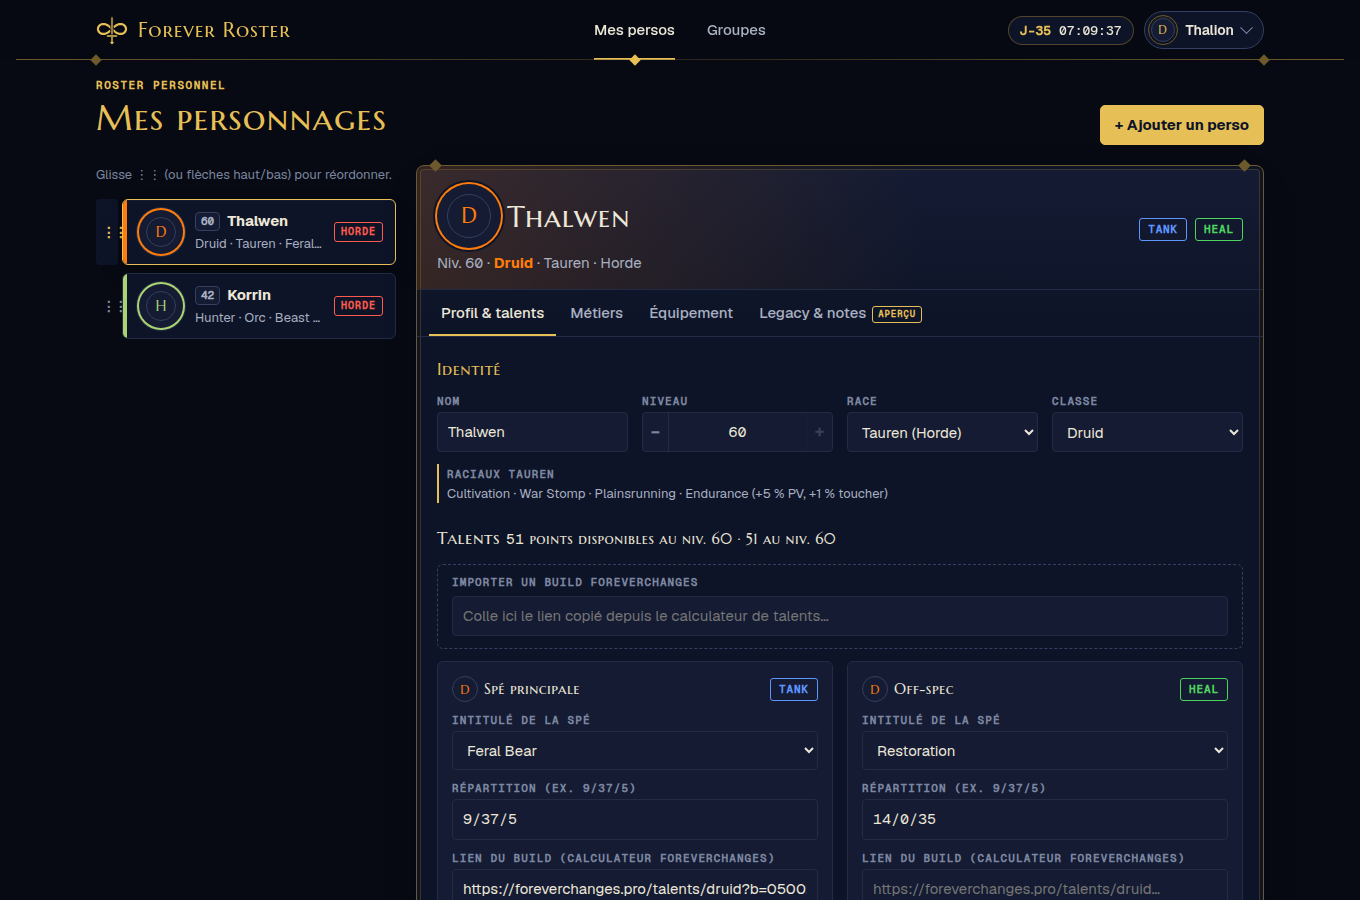
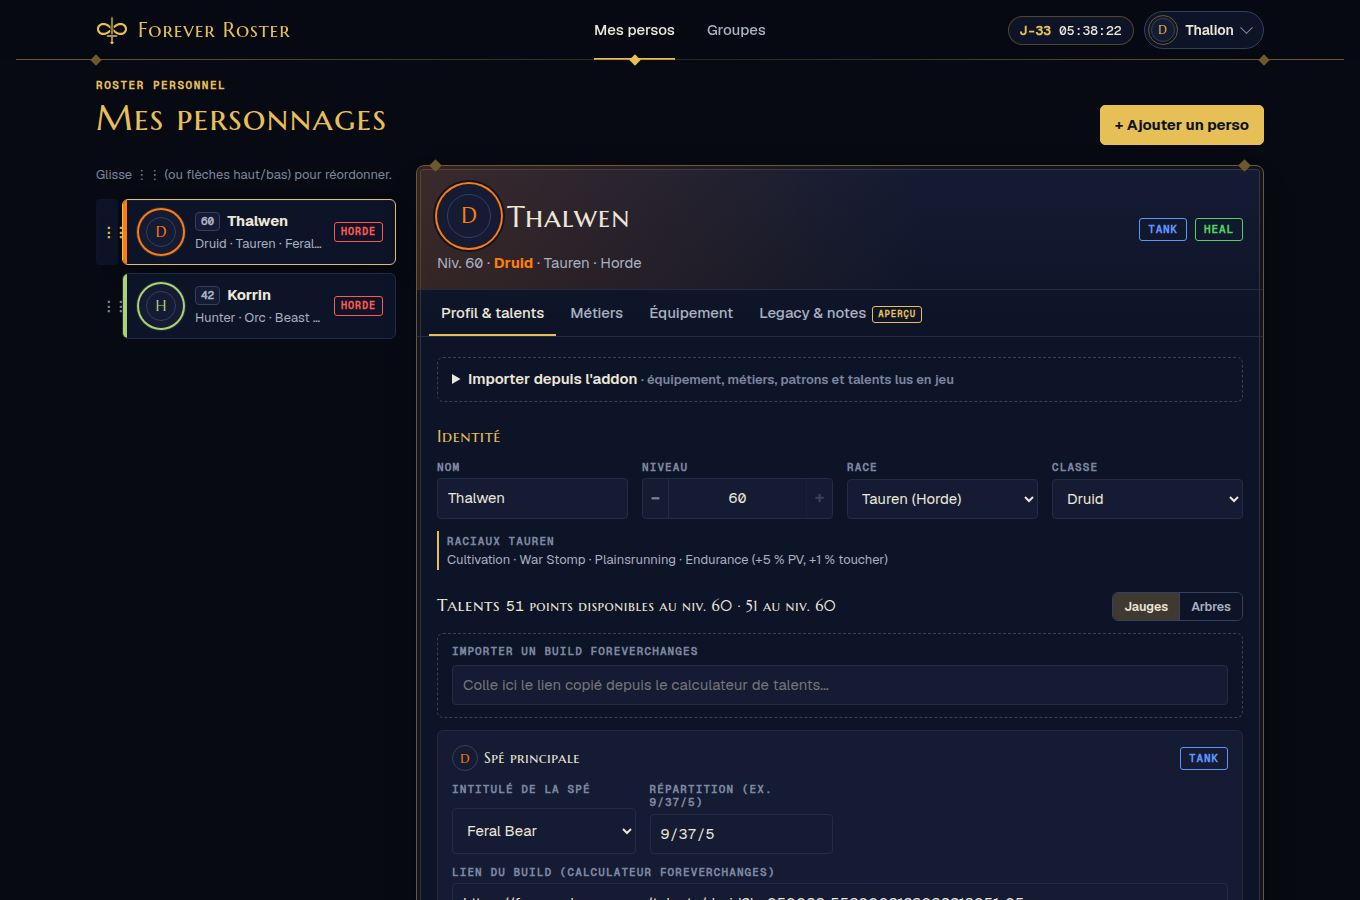
Nom de famille Forever, arbres sous la spé principale, patrons en colonne étroite
- nom de famille de Forever (« Greta Coulé ») : le jeu n'utilise que le
  prénom ; l'import de l'addon compare le prénom, l'export FRR et les
  macros /inv n'envoient que le prénom, l'addon 0.1.4 l'ignore aussi
- fiche : off-spec sous la spé principale, les trois arbres côte à côte
  sur toute la largeur, talents un peu plus grands
- patrons : en colonne étroite (métiers secondaires, mobile), boutons
  sous le nom au lieu d'écraser le nom lettre par lettre ; filtres type
  et rareté masqués quand la place manque
- capture 01-persos régénérée

Claude-Session: https://claude.ai/code/session_01Bqq2nF6L1A4M8CKsbknfM3

diff --git a/apps/web/src/styles.css b/apps/web/src/styles.css
@@ -193,8 +193,8 @@ table.gear { min-width: 720px; }
 @media (max-width: 520px) { .trow { grid-template-columns: 96px 1fr 30px; } .pane { padding: 16px; } .dhead { padding: 16px; } }
 @media (prefers-reduced-motion: no-preference) { .card, .btn, .tab, .slot { transition: border-color .15s, background .15s, color .15s; } }
 
-/* Builds : spé principale et off-spec côte à côte */
-.builds { display: grid; grid-template-columns: repeat(auto-fit, minmax(280px, 1fr)); gap: 14px; }
+/* Builds : spé principale puis off-spec en dessous (toute la largeur pour les trois arbres côte à côte) */
+.builds { display: grid; grid-template-columns: minmax(0, 1fr); gap: 14px; }
 .build { display: grid; gap: 12px; align-content: start; padding: 14px; border: 1px solid var(--line); border-radius: 6px; background: var(--panel-2); min-width: 0; }
 .build-head { display: flex; align-items: center; justify-content: space-between; gap: 8px; }
 .build-head h4 { margin: 0; font-size: 15px; }
@@ -208,19 +208,29 @@ table.gear { min-width: 720px; }
 .recipes > summary::before { content: "▸"; color: var(--gold); margin-right: 6px; transition: transform .15s; }
 .recipes[open] > summary::before { transform: rotate(90deg); }
 .recipes > summary > span:first-child { flex: 1; }
-.recipes-body { display: grid; gap: 10px; padding: 0 12px 12px; }
-.rfilters { display: grid; grid-template-columns: repeat(auto-fit, minmax(130px, 1fr)); gap: 6px; }
+.recipes-body { container-type: inline-size; display: grid; gap: 10px; padding: 0 12px 12px; }
+.rfilters { display: grid; grid-template-columns: repeat(auto-fit, minmax(110px, 1fr)); gap: 6px; }
 .rfilters input { grid-column: 1 / -1; }
-.rlist { list-style: none; margin: 0; padding: 0; display: grid; max-height: 420px; overflow: auto; scrollbar-gutter: stable; border-top: 1px solid var(--line); }
+.rlist { container-type: inline-size; list-style: none; margin: 0; padding: 0; display: grid; max-height: 420px; overflow: auto; scrollbar-gutter: stable; border-top: 1px solid var(--line); }
 .rlist li { display: grid; grid-template-columns: 1fr auto; gap: 10px; align-items: center; padding: 7px 10px 7px 4px; border-bottom: 1px solid var(--line); }
 .rlist li.known { background: color-mix(in srgb, var(--ok) 7%, transparent); }
 .rlist li.wanted { background: color-mix(in srgb, var(--gold) 9%, transparent); }
 .rmain { min-width: 0; display: grid; gap: 2px; }
-.rname { font-weight: 600; overflow-wrap: anywhere; }
+.rname { font-weight: 600; overflow-wrap: break-word; }
 .rmeta { display: flex; flex-wrap: wrap; gap: 4px 10px; font-size: 12.5px; color: var(--ink-3); }
 .rmeta .num { font-family: var(--f-mono); color: var(--ink-2); }
 .rmeta .warn, .rmeta .warn .num { color: var(--warn); }
 .rmeta .reag { flex-basis: 100%; }
+/* Colonne étroite (métiers secondaires, mobile) : boutons sous le nom, pour ne pas écraser le nom lettre par lettre */
+@container (max-width: 420px) {
+  .rlist li { grid-template-columns: minmax(0, 1fr); gap: 6px; }
+  .rmarks { justify-self: start; }
+}
+/* Très étroit (métiers secondaires) : type et rareté masqués, peu utiles pour la cuisine ou le secourisme */
+@container (max-width: 300px) {
+  .rfilters { grid-template-columns: minmax(0, 1fr); }
+  .rfilters .rf-extra { display: none; }
+}
 .rmarks { display: inline-flex; border: 1px solid var(--line-2); border-radius: 6px; overflow: hidden; flex: none; }
 .rmark { background: var(--panel); border: 0; padding: 4px 9px; font: 600 12px/1.3 var(--f-body); color: var(--ink-3); cursor: pointer; white-space: nowrap; }
 .rmark + .rmark { border-left: 1px solid var(--line-2); }
@@ -595,7 +605,7 @@ button.hportrait { cursor: pointer; }
 .ai-part .muted { overflow: hidden; text-overflow: ellipsis; white-space: nowrap; }
 
 /* Arbres de talents de Forever en grille (disposition réelle du jeu) */
-.ttrees.grid { display: grid; grid-template-columns: repeat(auto-fit, minmax(150px, 1fr)); gap: 10px; align-items: start; }
+.ttrees.grid { display: grid; grid-template-columns: repeat(auto-fit, minmax(190px, 1fr)); gap: 10px; align-items: stretch; }
 .tt-col { display: grid; gap: 6px; justify-items: center; padding: 8px 4px; border-radius: 6px; background: var(--panel); border: 1px solid var(--line); min-width: 0; }
 .tt-col.main { border-color: color-mix(in srgb, var(--cc, var(--gold)) 60%, var(--line)); }
 .tt-colhead { display: flex; align-items: center; gap: 6px; width: 100%; padding: 0 4px; min-width: 0; }
@@ -605,13 +615,13 @@ button.hportrait { cursor: pointer; }
 .tg-arrows { position: absolute; inset: 0; pointer-events: none; }
 .tg-arrows line { stroke: var(--line-2); stroke-width: 2; }
 .tg-arrows line.on { stroke: var(--gold); }
-.tg-slot { position: absolute; width: 30px; height: 30px; border-radius: 5px; background: var(--panel-2); box-shadow: 0 0 0 1px var(--line-2); }
+.tg-slot { position: absolute; width: 34px; height: 34px; border-radius: 5px; background: var(--panel-2); box-shadow: 0 0 0 1px var(--line-2); }
 .tg-slot img, .tg-ph { width: 100%; height: 100%; border-radius: 5px; display: grid; place-items: center; object-fit: cover; filter: grayscale(1) brightness(.5); }
 .tg-ph { font: 600 10px/1 var(--f-mono); color: var(--ink-3); filter: none; }
 .tg-slot.on img { filter: none; }
 .tg-slot.on { box-shadow: 0 0 0 2px var(--ok); }
 .tg-slot.max { box-shadow: 0 0 0 2px var(--gold); }
 .tg-slot.locked { opacity: .55; }
-.tg-slot b { position: absolute; right: -5px; bottom: -6px; padding: 0 2px; border-radius: 3px; font-size: 8.5px; line-height: 1.25; background: #0b1022; color: #cfd3dc; border: 1px solid var(--line-2); }
+.tg-slot b { position: absolute; right: -4px; bottom: -5px; padding: 0 2px; border-radius: 3px; font-size: 9px; line-height: 1.25; background: #0b1022; color: #cfd3dc; border: 1px solid var(--line-2); }
 .tg-slot.on b { color: #1eff00; } .tg-slot.max b { color: #ffd100; }
 .tg-slot:focus-visible { outline: 2px solid var(--gold); outline-offset: 2px; }

diff --git a/packages/game-data/src/addon.ts b/packages/game-data/src/addon.ts
@@ -24,12 +24,22 @@ export interface ExportMember {
 
 const clean = (s: string) => s.replace(/[;\r\n|]/g, " ").trim();
 
+/**
+ * Nom du perso tel que le jeu le connaît : Forever permet un nom de famille (« Greta Coulé »),
+ * mais le jeu (invitations, export de l'addon) n'utilise que le prénom.
+ */
+export const gameName = (name: string) => clean(name).split(/\s+/)[0] ?? "";
+
+/** L'export du jeu (prénom seul) correspond-il à cette fiche (prénom + nom de famille éventuel) ? */
+export const sameCharacter = (exportName: string, ficheName: string) =>
+  gameName(exportName).normalize("NFC").toLocaleLowerCase("fr") === gameName(ficheName).normalize("NFC").toLocaleLowerCase("fr");
+
 export function addonExport(raid: { id: string; name: string; scheduledAt: string | null }, members: ExportMember[]): string {
   const unix = raid.scheduledAt ? Math.floor(new Date(raid.scheduledAt).getTime() / 1000) : 0;
   const sorted = [...members].sort((a, b) => (a.group || 99) - (b.group || 99) || a.pos - b.pos || a.name.localeCompare(b.name));
   const lines = [
     `FRR;${ADDON_FORMAT_VERSION};${raid.id};${unix};${clean(raid.name)}`,
-    ...sorted.map(m => ["M", clean(m.name), m.cls.toUpperCase(), m.role ?? "", clean(m.spec ?? ""), m.group, m.pos, m.status ?? "", m.source].join(";")),
+    ...sorted.map(m => ["M", m.source === "site" ? gameName(m.name) : clean(m.name), m.cls.toUpperCase(), m.role ?? "", clean(m.spec ?? ""), m.group, m.pos, m.status ?? "", m.source].join(";")),
     `END;${sorted.length}`,
   ];
   return lines.join("\n");
@@ -39,7 +49,7 @@ export function addonExport(raid: { id: string; name: string; scheduledAt: strin
 export function inviteMacros(names: string[], max = 255): string[] {
   const macros: string[] = [];
   let cur = "";
-  for (const n of [...new Set(names.map(clean).filter(Boolean))]) {
+  for (const n of [...new Set(names.map(gameName).filter(Boolean))]) {
     const line = `/inv ${n}`;
     if (cur && cur.length + 1 + line.length > max) { macros.push(cur); cur = ""; }
     cur = cur ? `${cur}\n${line}` : line;

diff --git a/apps/web/src/components/AddonImport.tsx b/apps/web/src/components/AddonImport.tsx
@@ -1,4 +1,4 @@
-import { isValidCombo, parseCharacterExport, PROFESSION_SKILL_LINES, professionsFromExport, type CharacterExport } from "@forever/game-data";
+import { isValidCombo, parseCharacterExport, sameCharacter, PROFESSION_SKILL_LINES, professionsFromExport, type CharacterExport } from "@forever/game-data";
 import { useQueryClient } from "@tanstack/react-query";
 import { useState } from "react";
 import { ApiError, get, post, type Character, type GameItem } from "../api";
@@ -93,7 +93,7 @@ export function AddonImport({ c, onChange }: { c: Character; onChange: (p: Parti
         {d && (
           <div className="bi-result ok">
             <div><strong>{d.name}</strong> <span className="muted">({d.realm}) · exporté le {new Date(d.time * 1000).toLocaleString("fr-FR")}</span></div>
-            {d.name.toLowerCase() !== c.name.toLowerCase() && <span className="bi-msg bad">Cet export est celui de {d.name}, pas de {c.name} : vérifie que c'est la bonne fiche.</span>}
+            {!sameCharacter(d.name, c.name) && <span className="bi-msg bad">Cet export est celui de {d.name}, pas de {c.name} : vérifie que c'est la bonne fiche.</span>}
             {classClash && <span className="bi-msg bad">Classe différente : {d.cls} en jeu, {c.cls} sur la fiche. Rien ne sera repris.</span>}
             {raceClash && <span className="bi-msg bad">Race différente : {d.race} en jeu, {c.race} sur la fiche (la race de la fiche est gardée).</span>}
             <div className="ai-parts">

diff --git a/apps/web/src/components/GameData.tsx b/apps/web/src/components/GameData.tsx
@@ -125,10 +125,10 @@ export function RecipeCard({ characterId, profession, skill, editable }: { chara
                 <select aria-label="Source" value={source} onChange={e => setSource(e.target.value as Source)}>
                   <option value="item">Patrons (objets)</option><option value="trainer">Entraîneur</option><option value="all">Toutes les recettes</option>
                 </select>
-                <select aria-label="Type d'objet" value={category} onChange={e => setCategory(e.target.value)}>
+                <select className="rf-extra" aria-label="Type d'objet" value={category} onChange={e => setCategory(e.target.value)}>
                   <option value="">Tous les types</option>{categories.map(c => <option key={c}>{c}</option>)}
                 </select>
-                <select aria-label="Rareté" value={quality} onChange={e => setQuality(e.target.value)}>
+                <select className="rf-extra" aria-label="Rareté" value={quality} onChange={e => setQuality(e.target.value)}>
                   <option value="">Toutes raretés</option>{qualities.map(v => <option key={v} value={v}>{QUALITY_LABEL[v]}</option>)}
                 </select>
                 <select aria-label="Affichage" value={view} onChange={e => setView(e.target.value as View)}>

diff --git a/packages/game-data/src/time.test.ts b/packages/game-data/src/time.test.ts
@@ -1,5 +1,5 @@
 import { describe, expect, it } from "vitest";
-import { addonExport, inviteMacros } from "./addon";
+import { addonExport, inviteMacros, sameCharacter } from "./addon";
 import { weeklyOccurrences, zonedParts, zonedTime } from "./time";
 
 describe("fuseau du serveur de jeu", () => {
@@ -39,5 +39,16 @@ describe("export addon", () => {
     expect(macros.every(m => m.length <= 255)).toBe(true);
     expect(macros.join("\n").split("\n")).toHaveLength(40);
     expect(inviteMacros(["A", "A", ""])).toEqual(["/inv A"]);
+  });
+  it("nom de famille de Forever : le jeu n'utilise que le prénom", () => {
+    expect(inviteMacros(["Greta Coulé", "Sley"])).toEqual(["/inv Greta\n/inv Sley"]);
+    const text = addonExport({ id: "r1", name: "MC", scheduledAt: null }, [
+      { name: "Greta Coulé", cls: "Druid", spec: "Feral Cat", role: "DPS", group: 1, pos: 1, status: "present", source: "site" },
+    ]);
+    expect(text).toContain("\nM;Greta;DRUID;");
+    expect(sameCharacter("Greta", "Greta Coulé")).toBe(true);
+    expect(sameCharacter("greta", "Gréta")).toBe(false);
+    expect(sameCharacter("Sylvaë", "SYLVAË")).toBe(true);
+    expect(sameCharacter("Greta", "Malveillance")).toBe(false);
   });
 });

diff --git a/apps/web/src/components/TalentTrees.tsx b/apps/web/src/components/TalentTrees.tsx
@@ -100,7 +100,7 @@ export function TalentTrees({ cls, points, mainTree, view = "gauges", ranks, tal
   );
 }
 
-const CELL = 30, GAP = 6;
+const CELL = 34, GAP = 8;
 
 /** Un arbre à sa vraie disposition : 4 colonnes, un palier par ligne, flèches des prérequis, infobulle par talent. */
 function TreeGrid({ talents, ranks, spent }: { talents: Talent[]; ranks: Map<number, number>; spent: number }) {

diff --git a/docs/addon-format.md b/docs/addon-format.md
@@ -34,6 +34,8 @@ END;<nombre de lignes M>
 | `statut` | `present`, `late`, `tentative`, `alt`, `bench`, ou vide (placé sans être inscrit). Les absents ne sont pas exportés. |
 | `source` | `site` : perso d'un compte du site (nom en jeu fiable). `discord` : inscription libre, le « nom » est le pseudo Discord. |
 
+Nom de famille : Forever permet d'en ajouter un (« Greta Coulé »), mais le jeu n'utilise que le prénom pour les invitations et `UnitName`. Le site n'exporte donc que le prénom des persos `site`, et l'addon ignore ce qui suit le premier espace.
+
 Ordre : placés par groupe puis par place, puis non placés par nom.
 
 ## Exemple
